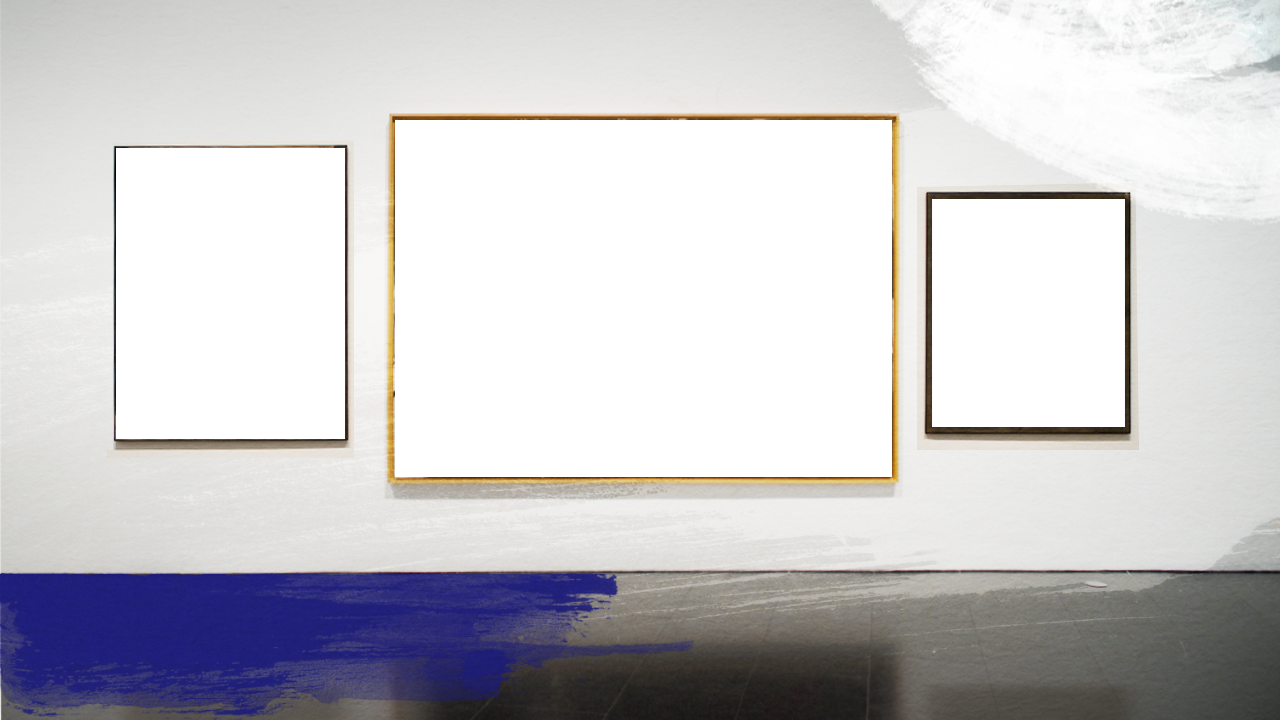
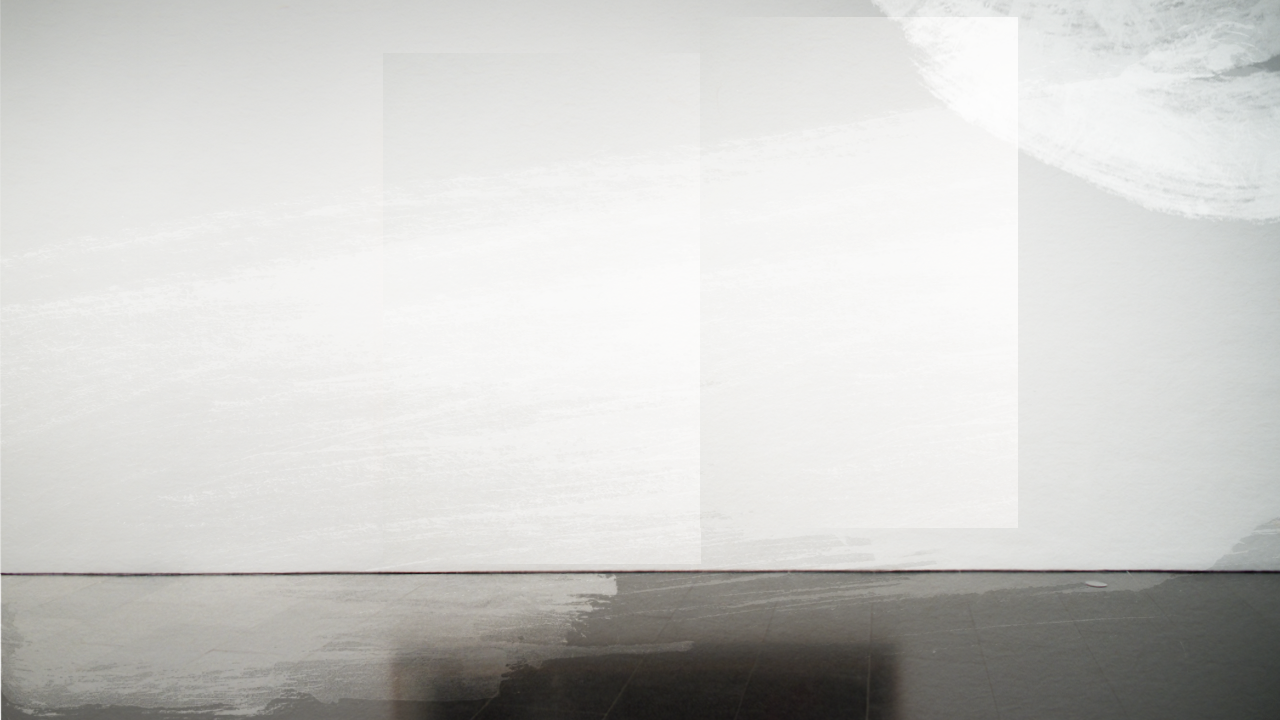
la meva exposio

Changed region(s): [[0.0625, 0.1528, 0.9062, 0.7028], [0.0, 0.7944, 0.9062, 1.0], [0.8125, 0.0, 1.0, 0.2444]]

diff --git a/assets/styles/site.css b/assets/styles/site.css
@@ -491,3 +491,31 @@ a.mapa:active{
 	text-align:right;
 	margin-top:5px;
 }
+
+.quadreesq{
+    position : absolute;
+	left:30px;
+	top:100px;
+}
+
+.quadrecentral{
+    position : absolute;
+	left:300px;
+	top:80px;
+}
+
+.imgquadreesq{
+    position : absolute;
+	left:43px;
+	top:121px;
+	width: 227px;
+	height: 290px;
+}
+
+.imgquadrecentral{
+    position : absolute;
+	left:316px;
+	top:94px;
+	width: 493px;
+	height: 354px;
+}

diff --git a/application/controllers/lamevaexposicio.php b/application/controllers/lamevaexposicio.php
@@ -22,7 +22,16 @@
 				$data['salanext'] = $row->salanext;
 				$data['salaprev'] = $row->salaprev;
 			}
-						
+			
+			$data['bautorretrat'] = $this->respostes->bapartatJaFet($session_data['username'], 3,1);
+			if($this->respostes->bapartatJaFet($session_data['username'], 3,1) == true){
+				$data['autoretratpropi'] = $this->respostes->getLaMevaRespostaFitxer($session_data['username'], 3,1);
+			}
+			$data['bgraffiti'] = $this->respostes->bapartatJaFet($session_data['username'], 4,2);
+			if($this->respostes->bapartatJaFet($session_data['username'], 4,2) == true){
+				$data['graffitipropi'] = $this->respostes->getLaMevaRespostaFitxer($session_data['username'], 4,2);
+			}
+			
 			$this->load->view('lamevaexposicio_view', $data);
 		}
 		else

diff --git a/application/views/lamevaexposicio_view.php b/application/views/lamevaexposicio_view.php
@@ -42,6 +42,14 @@
 	</div>
 	<!-- continguts -->
 	<div class="contingutsbox">
+		<img class="quadrecentral" src="<?php echo base_url().'/assets/images/exposicioglobal/marccentral.png'; ?>" />
+		<?php if($bautorretrat == true){ ?>
+			<img class="imgquadrecentral" src="<?php echo base_url().'files/'.$autoretratpropi; ?>" />
+		<?php } ?>
+		<img class="quadreesq" src="<?php echo base_url().'/assets/images/exposicioglobal/marcesquerra.png'; ?>" />
+		<?php if($bgraffiti == true){ ?>
+			<img class="imgquadreesq" src="<?php echo base_url().'files/'.$graffitipropi; ?>" />
+		<?php } ?>
 	</div>
 </body>
 </html>
